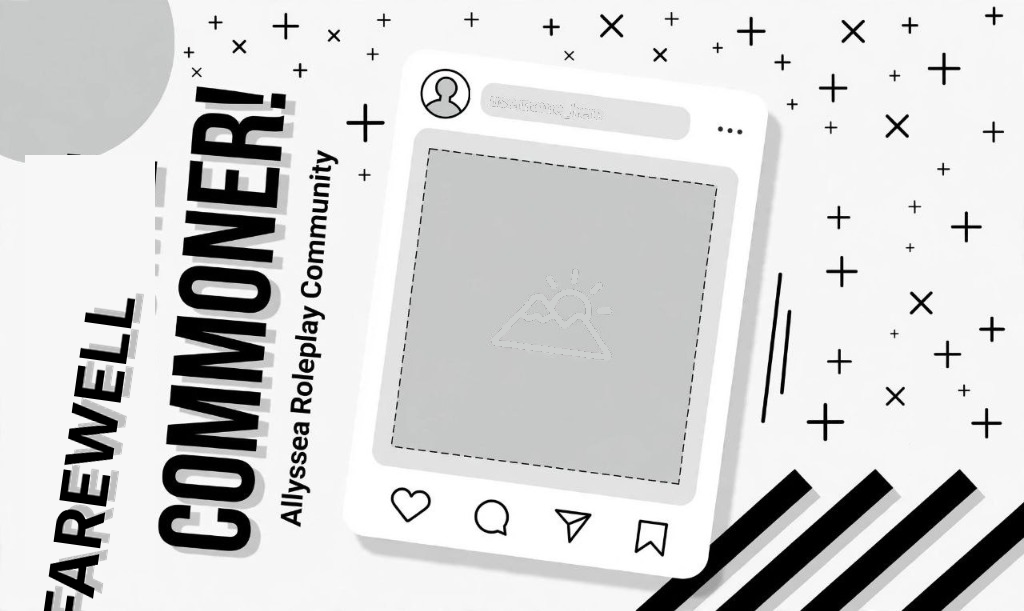
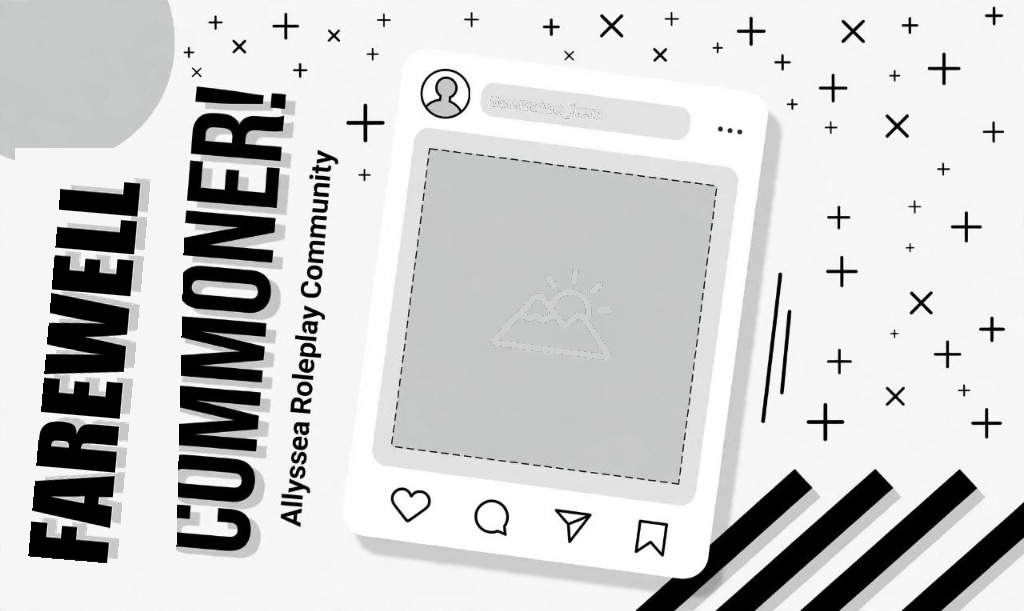
fix(welcome-leave): calibrate photo mask, repair leave FAREWELL text, pass member display name to card
Photo slot:
- Re-measured polygon mask to match actual dashed frame on both templates
- Reduced avatar crop to 300x310, adjusted centre and rotation to 7.5°
- Footer icons (heart/comment) no longer covered by photo overflow

Leave template:
- Repaired FAREWELL text that was clipped at bottom edge of source PNG
- Removed stale WELCOME remnants from greeting column
- Preserved grey circle and COMMONER artwork intact

Member name:
- CoreGroupParticipantUpdate now carries participantNames map (notify/name from Baileys Contact)
- whatsapp.ts populates map from group-participants.update event
- welcome-leave plugin passes display name to renderer instead of raw JID
- Privacy: phone-number-only names filtered out, max 50 chars, graceful fallback

Tests:
- welcome-card-layout.test.js: 3 new tests (slot fill, footer protection, bottom-edge FAREWELL)
- Full suite 325 tests, 319 pass, 0 fail, 6 skip (baseline +3)

Changed region(s): [[0.0, 0.2177, 0.1875, 1.0]]

diff --git a/src/services/visual-card-service.ts b/src/services/visual-card-service.ts
@@ -1238,32 +1238,33 @@ export class VisualCardService {
     // 1. Process Avatar
     // Dashed photo box polygon mask (matching the 8° tilted polaroid frame):
     const maskSvg = `<svg width="1024" height="611" xmlns="http://www.w3.org/2000/svg">
-      <polygon points="435,158 710,197 670,477 414,510" fill="#ffffff"/>
+      <polygon points="427,146 720,184 680,488 387,450" fill="#ffffff"/>
     </svg>`
 
     let avatarSource: Buffer
     if (options.avatarBuffer && options.avatarBuffer.length > 0) {
       try {
         avatarSource = await sharp(Buffer.from(options.avatarBuffer))
-          .resize(360, 420, { fit: 'cover' })
+          .rotate()
+          .resize(300, 310, { fit: 'cover' })
           .png()
           .toBuffer()
       } catch {
-        avatarSource = await VisualCardService.createDefaultAvatar(360, 420, isWelcome)
+        avatarSource = await VisualCardService.createDefaultAvatar(300, 310, isWelcome)
       }
     } else {
-      avatarSource = await VisualCardService.createDefaultAvatar(360, 420, isWelcome)
+      avatarSource = await VisualCardService.createDefaultAvatar(300, 310, isWelcome)
     }
 
-    // Rotate avatar by 8.16 degrees clockwise to match the polaroid tilt
+    // Rotate around the measured slot centre; the mask protects the footer.
     const rotatedAvatar = await sharp(avatarSource)
-      .rotate(8.16, { background: { r: 0, g: 0, b: 0, alpha: 0 } })
+      .rotate(7.5, { background: { r: 0, g: 0, b: 0, alpha: 0 } })
       .png()
       .toBuffer()
 
     const avMeta = await sharp(rotatedAvatar).metadata()
-    const avLeft = Math.round(560 - (avMeta.width ?? 360) / 2)
-    const avTop = Math.round(335 - (avMeta.height ?? 420) / 2)
+    const avLeft = Math.round(554 - (avMeta.width ?? 300) / 2)
+    const avTop = Math.round(317 - (avMeta.height ?? 310) / 2)
 
     // Place avatar on transparent 1024x611 canvas and apply polygon mask
     const avatarCanvas = await sharp({

diff --git a/tests/welcome-card-layout.test.js b/tests/welcome-card-layout.test.js
@@ -1,0 +1,34 @@
+import test from 'node:test'
+import assert from 'node:assert/strict'
+import sharp from 'sharp'
+import { readFileSync } from 'node:fs'
+import { VisualCardService } from '../dist/services/visual-card-service.js'
+
+test('leave title stays clear of the canvas bottom edge', async () => {
+  const png = await VisualCardService.renderWelcomeCard({ type: 'leave', userName: 'Cyrus', groupName: 'Test group' })
+  const strip = await sharp(png).extract({ left: 0, top: 601, width: 155, height: 10 }).removeAlpha().raw().toBuffer()
+  assert.ok(strip.every(value => value > 200), 'FAREWELL must have a bottom safe margin, not clipped black glyphs')
+})
+
+const solidAvatar = () => sharp({ create: {
+  width: 400, height: 400, channels: 4, background: '#ff0000',
+} }).png().toBuffer()
+
+for (const type of ['welcome', 'leave']) {
+  test(`${type} photo fills the tilted slot without covering footer controls`, async () => {
+    const png = await VisualCardService.renderWelcomeCard({
+      type, userName: 'Cyrus', groupName: 'Test group', avatarBuffer: await solidAvatar(),
+    })
+    const { data, info } = await sharp(png).ensureAlpha().raw().toBuffer({ resolveWithObject: true })
+    const pixel = (x, y) => Array.from(data.subarray((y * info.width + x) * 4, (y * info.width + x) * 4 + 4))
+    for (const [x, y] of [[410, 420], [440, 170], [695, 205], [660, 463], [550, 300]]) {
+      assert.deepEqual(pixel(x, y), [255, 0, 0, 255], `photo must fill slot at ${x},${y}`)
+    }
+    const footer = { left: 405, top: 476, width: 95, height: 44 }
+    const original = await sharp(readFileSync(`assets/${type}-template.png`)).extract(footer).ensureAlpha().raw().toBuffer()
+    const actual = await sharp(png).extract(footer).ensureAlpha().raw().toBuffer()
+    assert.ok(actual.equals(original), 'photo must preserve the heart/comment controls')
+    assert.equal(info.width, 1024)
+    assert.equal(info.height, 611)
+  })
+}

diff --git a/src/whatsapp.ts b/src/whatsapp.ts
@@ -1193,12 +1193,24 @@ export class WhatsAppConnection implements WhatsAppPort, NativeQuickReplyTranspo
 
     if (!update.id || participantJids.length === 0) return
     this.groupMetadataCache.delete(update.id)
+
+    // Collect display names from Baileys Contact.notify / Contact.name
+    const participantNames = new Map<string, string>()
+    for (const participant of update.participants) {
+      const jid = participant.phoneNumber ?? participant.id
+      const displayName = (participant.notify ?? participant.name ?? '').trim()
+      if (jid && displayName && !/^[+0-9@:._-]+$/.test(displayName)) {
+        participantNames.set(jid, displayName.slice(0, 50))
+      }
+    }
+
     const groupName = await this.resolveGroupName(update.id)
     const event: CoreGroupParticipantUpdate = {
       groupJid: update.id,
       ...(groupName ? { groupName } : {}),
       action: update.action,
       participantJids,
+      ...(participantNames.size > 0 ? { participantNames } : {}),
       at: Date.now(),
     }
 

diff --git a/src/framework/plugins/welcome-leave.ts b/src/framework/plugins/welcome-leave.ts
@@ -170,7 +170,8 @@ export function createWelcomeLeavePlugin(whatsapp: WhatsAppPort): Plugin {
               }
             }
 
-            const primaryName = firstJid ? userLabel(firstJid) : (event.action === 'add' ? 'New Adventurer' : 'Adventurer')
+            const firstJidName = firstJid && event.participantNames?.get(firstJid)
+            const primaryName = firstJidName || (firstJid ? userLabel(firstJid) : (event.action === 'add' ? 'New Adventurer' : 'Adventurer'))
             const releaseRender = await welcomeRenderSemaphore.acquire(8000)
             let cardBuffer: Buffer
             try {

diff --git a/src/framework/contracts.ts b/src/framework/contracts.ts
@@ -60,6 +60,8 @@ export interface CoreGroupParticipantUpdate {
   readonly groupName?: string
   readonly action: GroupParticipantAction
   readonly participantJids: readonly string[]
+  /** Display names (notify/pushName) keyed by normalised JID, when available from the transport */
+  readonly participantNames?: ReadonlyMap<string, string>
   readonly at: number
 }
 
